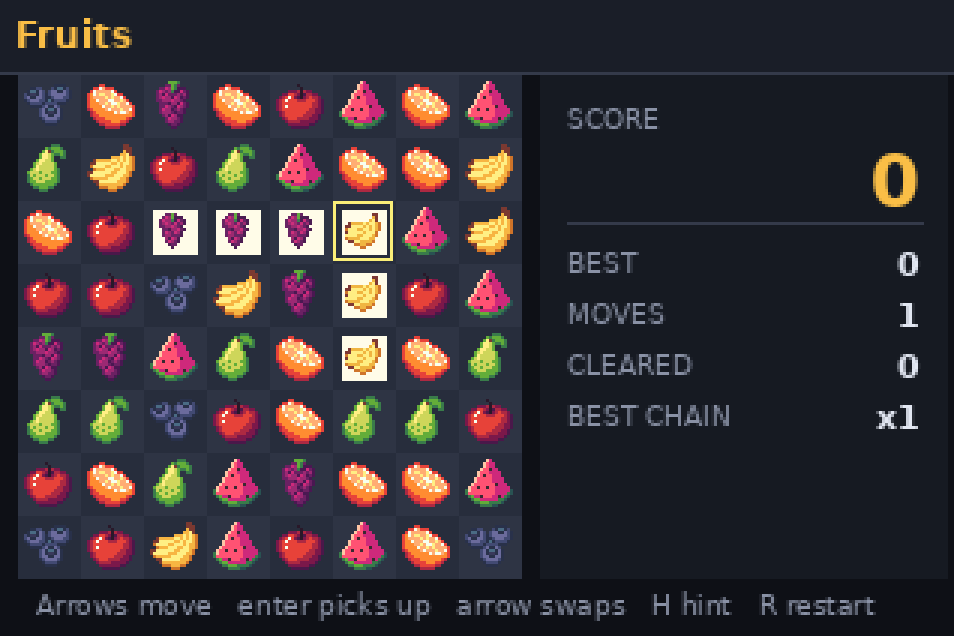
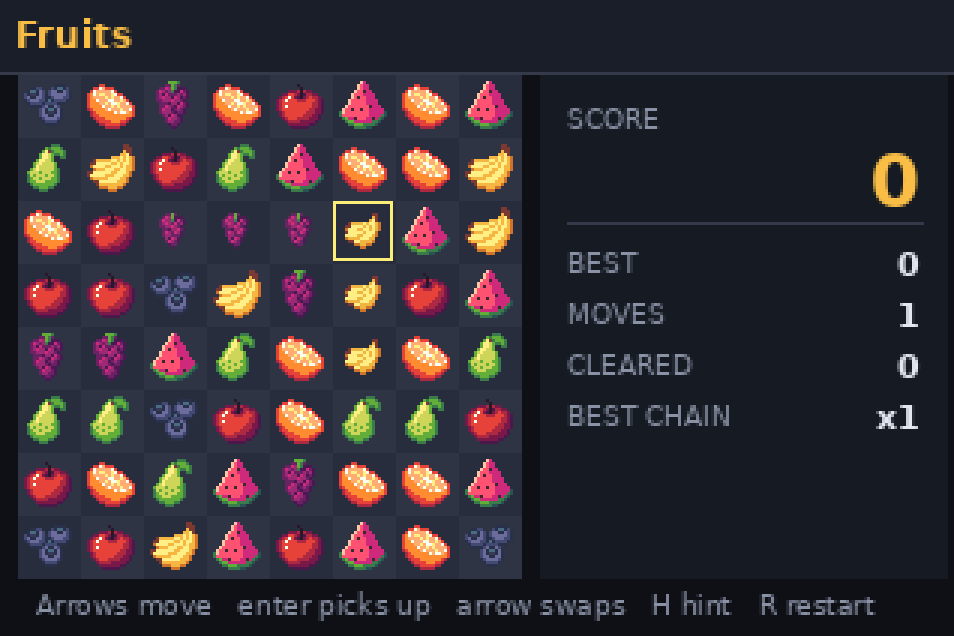
Fruits: one cursor ring, and no white box behind a bursting fruit
Two presentation faults, both reported from a real calculator.

The cursor drew three rings on one cell -- a yellow cursor outline plus a
cyan double ring for the pick-up -- which reads as clutter rather than as
information. It was never buying anything: `confirm` selects the cell the
cursor is already on, and an arrow with a fruit picked up performs the swap
instead of steering, so the cursor and the pick-up are always the same cell.
One ring now, recoloured when a fruit is up, with the fruit itself still
lifting a couple of pixels. A test pins the premise so this fails loudly
rather than quietly if the input handling ever separates the two.

A bursting fruit shrank over a near-white backing rect. On hardware that
reads as a rendering fault rather than as a cue, and it was reported as one.
The shrink says it perfectly well alone, so the rect is gone.

The second one is really a rule that was not being enforced: nothing but fruit
may be FILLED inside a cell, which is exactly what lets tests/fruits/frame.lua
take every fill as art. A test now learns the art's palette from the rect draw
path, where every fill is art by definition, and fails if a cascade on the
image path ever puts a colour in a cell that is not in it. Checked against a
deliberate reintroduction of the backing: it fails and names the colour.

Claude-Session: https://claude.ai/code/session_01Kp8Jucbvm6sN1CR658djaM

Changed region(s): [[0.152, 0.3286, 0.4256, 0.5975]]

diff --git a/README.md b/README.md
@@ -829,8 +829,23 @@ second one, and this checks the **screen** against a third — the only one of
 them that would catch a board computed correctly and drawn somewhere else, or a
 fruit painted as the wrong sprite. It reads both draw paths: on the image path
 a cell's fruit is the image drawn in it, and on the rects it is the set of
-colours filled inside the cell. The cursor, the pick-up and the hint are drawn
-as *outlines* precisely so that every fill inside a cell can be taken as fruit.
+colours filled inside the cell.
+
+Nothing but fruit is ever *filled* inside a cell — the cursor and the hint are
+outlines — and that is what lets the reader take every fill as art without
+having to subtract chrome that moves around. A test pins it by learning the
+art's own palette from the rect path, where every fill is art by definition,
+and then failing if a cascade on the image path ever puts a colour in a cell
+that is not in it. It earned its place immediately: a bursting fruit used to
+shrink over a near-white backing rect, which on a real calculator reads as a
+rendering fault rather than as a cue.
+
+The cursor is one ring, not two stacked. Picking a fruit up never moves the
+cursor off it — an arrow with something picked up performs the swap rather than
+steering — so the two are always the same cell, and the ring changes colour
+while the fruit under it lifts a couple of pixels. A test pins that premise, so
+the single ring stops being correct loudly rather than quietly if the input
+handling ever changes.
 
 Settling is judged from the repaint requests rather than the picture, and the
 reason is worth writing down: at the very start of a swap the two fruit are
